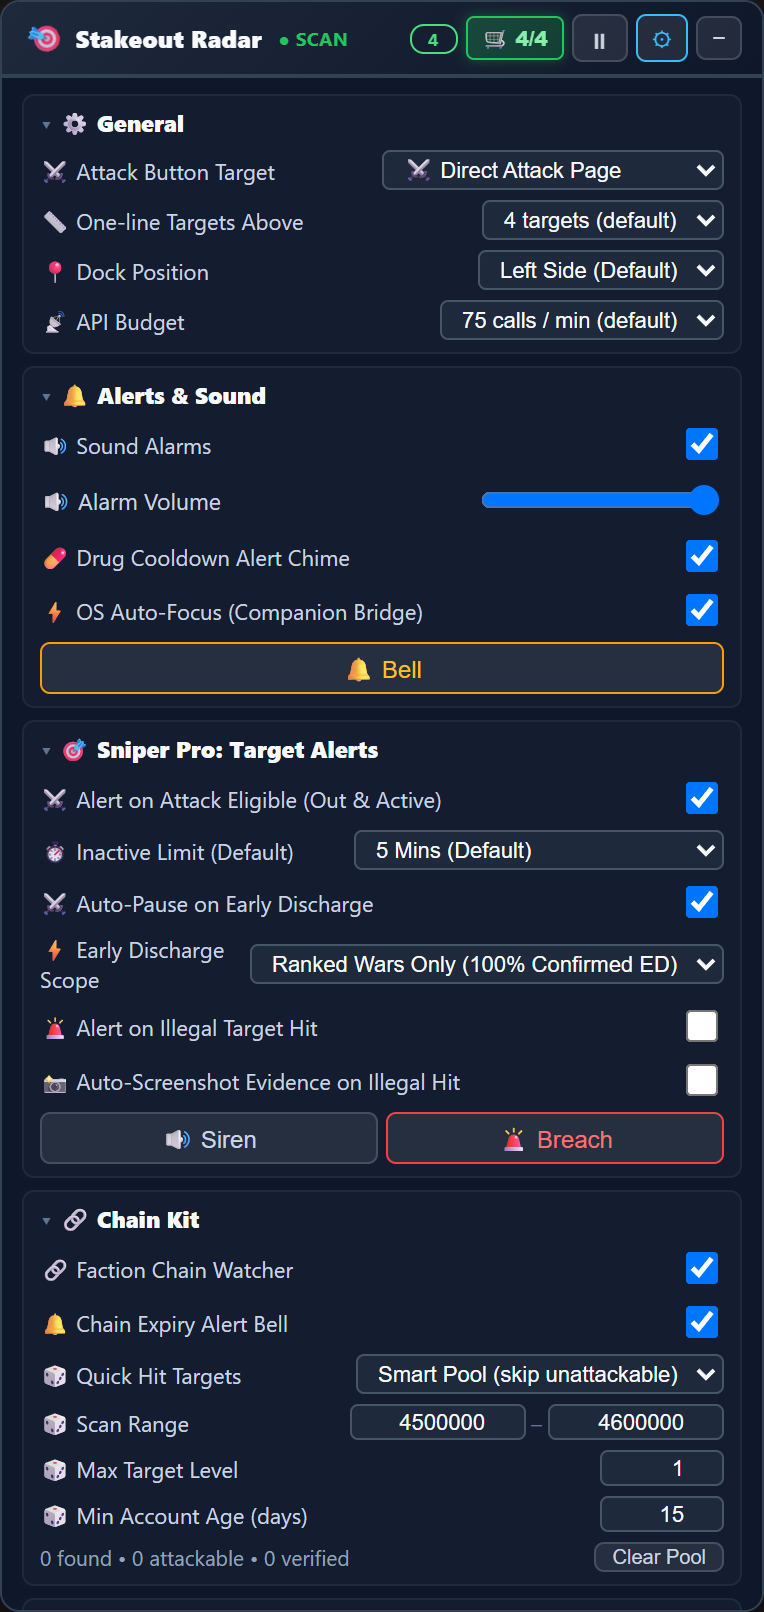
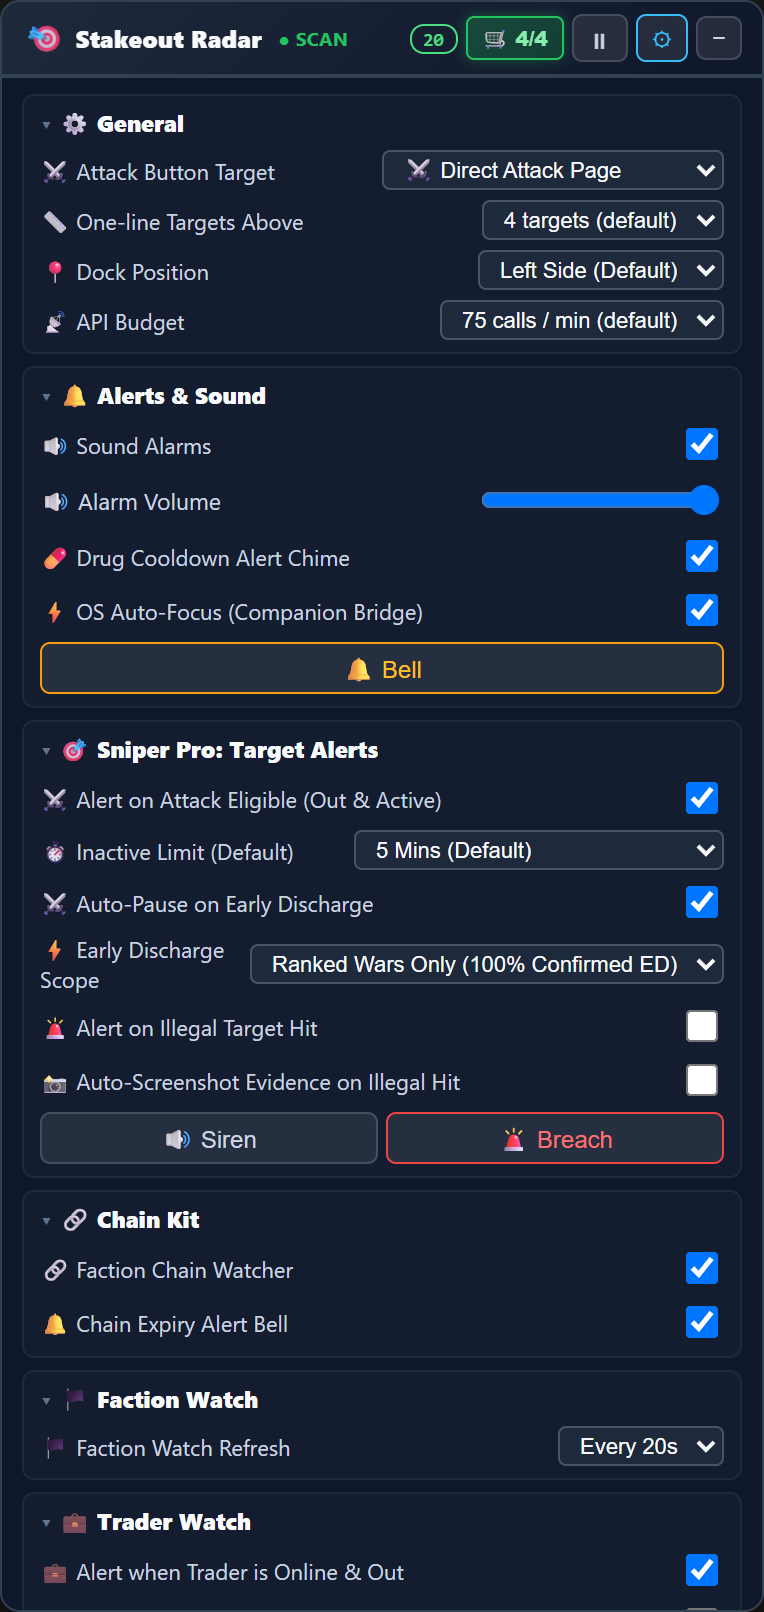
docs: Smart Pool matched to your account; screenshots for v1.74 (no pool settings, Quick Hit only)

Changed region(s): [[0.0602, 0.8375, 0.5118, 0.9926], [0.4817, 0.8375, 0.9634, 1.0], [0.4516, 0.8685, 0.4817, 0.8995]]

diff --git a/README.md b/README.md
@@ -31,7 +31,7 @@ Also for contracts:
 
 When the chain is about to drop, or you just want to burn your energy, you need a hittable target **now**, not a search through the people page.
 
-- **Quick Hit** opens an attack on a target from your **Smart Pool**: level-1 players checked to be out of hospital, not in jail, not abroad, not federal and not under new-citizen protection. Each merc gets a different random pool, so you don't collide on the same targets.
+- **Quick Hit** opens an attack on a target from your **Smart Pool**: low-level accounts checked to be out of hospital, not in jail, not abroad, not federal and not under new-citizen protection. The pool is matched to your own account: newer players get the newest, weakest accounts; veterans get a wider pool reaching a little further up. Each merc gets their own slice, so you don't collide on the same targets. Nothing to set up.
 - On the attack screen, the **Attack Next Target** bar takes you to the next pool target in one click, and shows your energy left ("125/150 E · 5 hits").
 - **Chain watcher:** chain timer bells before the chain breaks.
 - Ideal for Halloween: dump your energy into fast, easy hits to farm treats.
